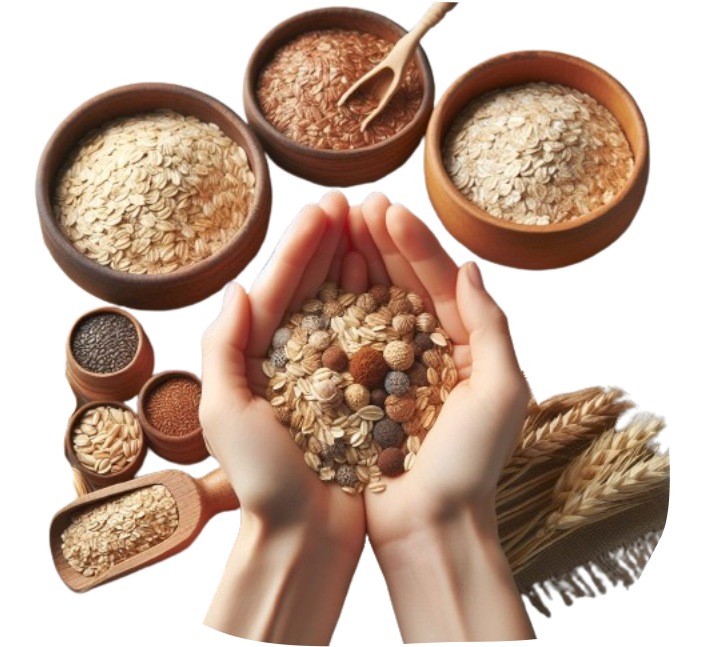
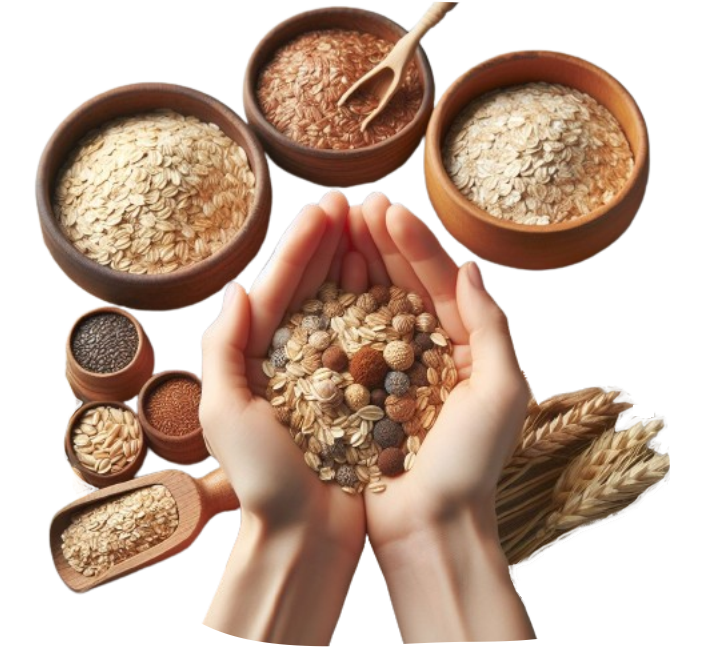
se agrego en tailwind.config.js el color green. mas m top al contact. Reemplazo de colores azules por verdes. Actualizacion imagen manos.

diff --git a/components/Hero/index.tsx b/components/Hero/index.tsx
@@ -15,7 +15,7 @@ const Hero = () => {
                 className="wow fadeInUp mx-auto max-w-[800px] text-center"
                 data-wow-delay=".2s"
               >
-                <h1 className="mb-5 text-3xl font-bold leading-tight text-black dark:text-white sm:text-4xl sm:leading-tight md:text-5xl md:leading-tight">
+                <h1 className="mb-5 text-3xl font-bold leading-tight text-dark dark:text-white sm:text-4xl sm:leading-tight md:text-5xl md:leading-tight">
                   Cooperativa de trabajo Cerealcoop Ltda.
                 </h1>
                {/*  <Image
@@ -105,8 +105,8 @@ const Hero = () => {
                 y2="288"
                 gradientUnits="userSpaceOnUse"
               >
-                <stop stopColor="#4A6CF7" />
-                <stop offset="1" stopColor="#4A6CF7" stopOpacity="0" />
+                <stop stopColor="#078c31" />
+                <stop offset="1" stopColor="#078c31" stopOpacity="0" />
               </linearGradient>
               <radialGradient
                 id="paint1_radial_25:217"
@@ -116,8 +116,8 @@ const Hero = () => {
                 gradientUnits="userSpaceOnUse"
                 gradientTransform="translate(17.9997 182) rotate(90) scale(18)"
               >
-                <stop offset="0.145833" stopColor="#4A6CF7" stopOpacity="0" />
-                <stop offset="1" stopColor="#4A6CF7" stopOpacity="0.08" />
+                <stop offset="0.145833" stopColor="#078c31" stopOpacity="0" />
+                <stop offset="1" stopColor="#078c31" stopOpacity="0.08" />
               </radialGradient>
               <radialGradient
                 id="paint2_radial_25:217"
@@ -127,8 +127,8 @@ const Hero = () => {
                 gradientUnits="userSpaceOnUse"
                 gradientTransform="translate(76.9997 288) rotate(90) scale(34)"
               >
-                <stop offset="0.145833" stopColor="#4A6CF7" stopOpacity="0" />
-                <stop offset="1" stopColor="#4A6CF7" stopOpacity="0.08" />
+                <stop offset="0.145833" stopColor="#078c31" stopOpacity="0" />
+                <stop offset="1" stopColor="#078c31" stopOpacity="0.08" />
               </radialGradient>
               <linearGradient
                 id="paint3_linear_25:217"
@@ -138,8 +138,8 @@ const Hero = () => {
                 y2="351.421"
                 gradientUnits="userSpaceOnUse"
               >
-                <stop stopColor="#4A6CF7" />
-                <stop offset="1" stopColor="#4A6CF7" stopOpacity="0" />
+                <stop stopColor="#078c31" />
+                <stop offset="1" stopColor="#078c31" stopOpacity="0" />
               </linearGradient>
               <linearGradient
                 id="paint4_linear_25:217"
@@ -149,7 +149,7 @@ const Hero = () => {
                 y2="448.882"
                 gradientUnits="userSpaceOnUse"
               >
-                <stop stopColor="#4A6CF7" />
+                <stop stopColor="#078c31" />
                 <stop offset="1" stopColor="white" stopOpacity="0" />
               </linearGradient>
               <linearGradient
@@ -160,7 +160,7 @@ const Hero = () => {
                 y2="470"
                 gradientUnits="userSpaceOnUse"
               >
-                <stop stopColor="#4A6CF7" />
+                <stop stopColor="#078c31" />
                 <stop offset="1" stopColor="white" stopOpacity="0" />
               </linearGradient>
               <linearGradient
@@ -171,8 +171,8 @@ const Hero = () => {
                 y2="338.63"
                 gradientUnits="userSpaceOnUse"
               >
-                <stop stopColor="#4A6CF7" />
-                <stop offset="1" stopColor="#4A6CF7" stopOpacity="0" />
+                <stop stopColor="#078c31" />
+                <stop offset="1" stopColor="#078c31" stopOpacity="0" />
               </linearGradient>
             </defs>
           </svg>
@@ -219,8 +219,8 @@ const Hero = () => {
                 y2="212.24"
                 gradientUnits="userSpaceOnUse"
               >
-                <stop stopColor="#4A6CF7" stopOpacity="0" />
-                <stop offset="1" stopColor="#4A6CF7" />
+                <stop stopColor="#078c31" stopOpacity="0" />
+                <stop offset="1" stopColor="#078c31" />
               </linearGradient>
               <linearGradient
                 id="paint1_linear_25:218"
@@ -230,8 +230,8 @@ const Hero = () => {
                 y2="212.24"
                 gradientUnits="userSpaceOnUse"
               >
-                <stop stopColor="#4A6CF7" stopOpacity="0" />
-                <stop offset="1" stopColor="#4A6CF7" />
+                <stop stopColor="#078c31" stopOpacity="0" />
+                <stop offset="1" stopColor="#078c31" />
               </linearGradient>
               <linearGradient
                 id="paint2_linear_25:218"
@@ -241,8 +241,8 @@ const Hero = () => {
                 y2="212.24"
                 gradientUnits="userSpaceOnUse"
               >
-                <stop stopColor="#4A6CF7" stopOpacity="0" />
-                <stop offset="1" stopColor="#4A6CF7" />
+                <stop stopColor="#078c31" stopOpacity="0" />
+                <stop offset="1" stopColor="#078c31" />
               </linearGradient>
               <linearGradient
                 id="paint3_linear_25:218"
@@ -252,8 +252,8 @@ const Hero = () => {
                 y2="210.214"
                 gradientUnits="userSpaceOnUse"
               >
-                <stop stopColor="#4A6CF7" stopOpacity="0" />
-                <stop offset="1" stopColor="#4A6CF7" />
+                <stop stopColor="#078c31" stopOpacity="0" />
+                <stop offset="1" stopColor="#078c31" />
               </linearGradient>
               <linearGradient
                 id="paint4_linear_25:218"
@@ -263,8 +263,8 @@ const Hero = () => {
                 y2="99.5816"
                 gradientUnits="userSpaceOnUse"
               >
-                <stop stopColor="#4A6CF7" />
-                <stop offset="1" stopColor="#4A6CF7" stopOpacity="0" />
+                <stop stopColor="#078c31" />
+                <stop offset="1" stopColor="#078c31" stopOpacity="0" />
               </linearGradient>
               <radialGradient
                 id="paint5_radial_25:218"

diff --git a/components/Footer/index.tsx b/components/Footer/index.tsx
@@ -74,7 +74,7 @@ const Footer = () => {
                   <li>
                    {/* Instagram */}
                    {/* ORIGINAL DE LA SIG LINEA <div className="dark:text-body-color-dark mb-4 inline-block text-base text-body-color duration-300 hover:text-primary dark:hover:text-primary"> */}
-                    <div className="dark:text-body-color-dark mb-4 text-base text-body-color duration-300 hover:text-primary dark:hover:text-primary">
+                    <div className="dark:text-body-color-dark mb-4 text-base text-body-color duration-300 hover:text-green dark:hover:text-green">
                       <Link href="https://www.instagram.com/cerealcoop/" target="_blank" className="flex align-middle">
                         <svg
                           xmlns="http://www.w3.org/2000/svg"
@@ -89,7 +89,7 @@ const Footer = () => {
                     </div>
                   </li>
                   <li>
-                    <div className="dark:text-body-color-dark mb-4 text-base text-body-color duration-300 hover:text-primary dark:hover:text-primary">
+                    <div className="dark:text-body-color-dark mb-4 text-base text-body-color duration-300 hover:text-green dark:hover:text-green">
                       <Link href="https://www.facebook.com/cerealcoop" target="_blank" className="flex align-middle">
                         <svg
                           xmlns="http://www.w3.org/2000/svg"  
@@ -115,7 +115,7 @@ const Footer = () => {
                   <li>
                     <Link href="https://www.google.com/search?hl=es-419&gl=ar&q=Cooperativa+de+Trabajo+Cerealcoop+Ltda.,+Balcarce+1450,+B7500IFD+Tres+Arroyos,+Provincia+de+Buenos+Aires&ludocid=11000712855476742547&lsig=AB86z5Vr_sa1EOOlyXF5CeOdl1nP#lrd=0x95926d38bac17f87:0x98aa620ecac3a993,3"
                       target="_blank" 
-                      className="dark:text-body-color-dark mb-4 inline-block text-base text-body-color duration-300 hover:text-primary dark:hover:text-primary"
+                      className="dark:text-body-color-dark mb-4 inline-block text-base text-body-color duration-300 hover:text-green dark:hover:text-green"
                     >
                       Opinar en google
                     </Link>
@@ -153,7 +153,7 @@ const Footer = () => {
             fill="none"
             xmlns="http://www.w3.org/2000/svg"
           >
-            <circle opacity="0.8" cx="49.5" cy="49.5" r="49.5" fill="#959CB1" />
+            <circle opacity="0.8" cx="49.5" cy="49.5" r="49.5" fill="#078c31" />
             <mask
               id="mask0_94:899"
               style={{ maskType: "alpha" }}
@@ -168,7 +168,7 @@ const Footer = () => {
                 cx="49.5"
                 cy="49.5"
                 r="49.5"
-                fill="#4A6CF7"
+                fill="#078c31"
               />
             </mask>
             <g mask="url(#mask0_94:899)">
@@ -274,8 +274,8 @@ const Footer = () => {
                 y2="59.8878"
                 gradientUnits="userSpaceOnUse"
               >
-                <stop stopColor="#4A6CF7" stopOpacity="0.62" />
-                <stop offset="1" stopColor="#4A6CF7" stopOpacity="0" />
+                <stop stopColor="#078c31" stopOpacity="0.62" />
+                <stop offset="1" stopColor="#078c31" stopOpacity="0" />
               </linearGradient>
               <linearGradient
                 id="paint1_linear_94:889"
@@ -285,8 +285,8 @@ const Footer = () => {
                 y2="20.668"
                 gradientUnits="userSpaceOnUse"
               >
-                <stop stopColor="#4A6CF7" stopOpacity="0" />
-                <stop offset="1" stopColor="#4A6CF7" stopOpacity="0.51" />
+                <stop stopColor="#078c31" stopOpacity="0" />
+                <stop offset="1" stopColor="#078c31" stopOpacity="0.51" />
               </linearGradient>
               <linearGradient
                 id="paint2_linear_94:889"
@@ -296,8 +296,8 @@ const Footer = () => {
                 y2="25.1062"
                 gradientUnits="userSpaceOnUse"
               >
-                <stop stopColor="#4A6CF7" stopOpacity="0.62" />
-                <stop offset="1" stopColor="#4A6CF7" stopOpacity="0" />
+                <stop stopColor="#078c31" stopOpacity="0.62" />
+                <stop offset="1" stopColor="#078c31" stopOpacity="0" />
               </linearGradient>
               <linearGradient
                 id="paint3_linear_94:889"
@@ -307,8 +307,8 @@ const Footer = () => {
                 y2="80.6826"
                 gradientUnits="userSpaceOnUse"
               >
-                <stop stopColor="#4A6CF7" stopOpacity="0" />
-                <stop offset="1" stopColor="#4A6CF7" stopOpacity="0.51" />
+                <stop stopColor="#078c31" stopOpacity="0" />
+                <stop offset="1" stopColor="#078c31" stopOpacity="0.51" />
               </linearGradient>
               <linearGradient
                 id="paint4_linear_94:889"
@@ -318,8 +318,8 @@ const Footer = () => {
                 y2="58.2156"
                 gradientUnits="userSpaceOnUse"
               >
-                <stop stopColor="#4A6CF7" stopOpacity="0.62" />
-                <stop offset="1" stopColor="#4A6CF7" stopOpacity="0" />
+                <stop stopColor="#078c31" stopOpacity="0.62" />
+                <stop offset="1" stopColor="#078c31" stopOpacity="0" />
               </linearGradient>
               <linearGradient
                 id="paint5_linear_94:889"
@@ -329,8 +329,8 @@ const Footer = () => {
                 y2="41.6598"
                 gradientUnits="userSpaceOnUse"
               >
-                <stop stopColor="#4A6CF7" stopOpacity="0" />
-                <stop offset="1" stopColor="#4A6CF7" stopOpacity="0.51" />
+                <stop stopColor="#078c31" stopOpacity="0" />
+                <stop offset="1" stopColor="#078c31" stopOpacity="0.51" />
               </linearGradient>
             </defs>
           </svg>

diff --git a/components/Header/index.tsx b/components/Header/index.tsx
@@ -79,7 +79,7 @@ const Header = () => {
                   onClick={navbarToggleHandler}
                   id="navbarToggler"
                   aria-label="Mobile Menu"
-                  className="absolute right-4 top-1/2 block translate-y-[-50%] rounded-lg px-3 py-[6px] ring-primary focus:ring-2 lg:hidden"
+                  className="absolute right-4 top-1/2 block translate-y-[-50%] rounded-lg px-3 py-[6px] ring-green focus:ring-2 lg:hidden"
                 >
                   <span
                     className={`relative my-1.5 block h-0.5 w-[30px] bg-black transition-all duration-300 dark:bg-white ${
@@ -113,8 +113,8 @@ const Header = () => {
                             href={menuItem.path}
                             className={`flex py-2 text-base justify-center lg:mr-0 lg:inline-flex lg:px-0 lg:py-6 ${
                               usePathName === menuItem.path
-                                ? "text-primary dark:text-white"
-                                : "text-dark hover:text-primary dark:text-white/70 dark:hover:text-white"
+                                ? "text-green dark:text-white"
+                                : "text-dark hover:text-green dark:text-white/70 dark:hover:text-white"
                             }`}
                           >
                             {menuItem.title}
@@ -123,7 +123,7 @@ const Header = () => {
                           <>
                             <p
                               onClick={() => handleSubmenu(index)}
-                              className="flex cursor-pointer items-center justify-between py-2 text-base text-dark group-hover:text-primary dark:text-white/70 dark:group-hover:text-white lg:mr-0 lg:inline-flex lg:px-0 lg:py-6"
+                              className="flex cursor-pointer items-center justify-between py-2 text-base text-dark group-hover:text-green dark:text-white/70 dark:group-hover:text-white lg:mr-0 lg:inline-flex lg:px-0 lg:py-6"
                             >
                               {menuItem.title}
                               <span className="pl-3">
@@ -177,7 +177,7 @@ const Header = () => {
                   <Link href="//api.whatsapp.com/send?phone=542983582016" target="_blank">
                     <svg
                       xmlns="http://www.w3.org/2000/svg"                    
-                      fill="currentColor"
+                      fill="#078c31"
                       style={{ color: '#128c7e'}}
                       viewBox="0 0 24 24">
                       <path

diff --git a/components/Contact/index.tsx b/components/Contact/index.tsx
@@ -7,7 +7,7 @@ const Contact = () => {
         <div className="-mx-4 flex flex-wrap">
           <div className="w-full px-4">
             <div
-              className="wow fadeInUp shadow-three dark:bg-gray-dark mb-12 rounded-sm bg-white px-8 py-11 sm:p-[55px] lg:mb-5 lg:px-8 xl:p-[55px]"
+              className="wow fadeInUp shadow-three dark:bg-gray-dark mb-12 mt-6 rounded-sm bg-white px-8 py-11 sm:p-[55px] lg:mb-5 lg:px-8 xl:p-[55px]"
               data-wow-delay=".15s
               "
             >
@@ -22,24 +22,24 @@ const Contact = () => {
               </p>
                 <div className="-mx-4 flex flex-wrap">
                   <div className="w-full px-4 md:w-1/2">
-                    <div className="mb-8">
+                    <div className="mb-8  hover:text-green dark:hover:text-green">
                       <Link href="https://maps.app.goo.gl/VBvaxE1udhaViQyF6" target="_blank">
                         Balcarce 1450, Tres Arroyos, pcia. de Buenos Aires.
                       </Link>                      
                     </div>
-                    <div className="mb-8">
+                    <div className="mb-8 hover:text-green dark:hover:text-green">
                       <Link href="tel:+542983574647" target="_blank">
                         Telefono: 2983 574647 
                       </Link>
                     </div>
                   </div>
                   <div className="w-full px-4 md:w-1/2">
-                    <div className="mb-8">
+                    <div className="mb-8 hover:text-green dark:hover:text-green">
                       <Link href="mailto:info@cerealcoop.com.ar" target="_blank">
                         mail: info@cerealcoop.com.ar
                       </Link>
                     </div>
-                    <div className="mb-8">
+                    <div className="mb-8 hover:text-green dark:hover:text-green">
                       <Link href="//api.whatsapp.com/send?phone=542983574647" target="_blank">
                         Whatsapp: 2983 574647 
                       </Link>

diff --git a/components/ScrollToTop/index.tsx b/components/ScrollToTop/index.tsx
@@ -33,7 +33,7 @@ export default function ScrollToTop() {
         <div
           onClick={scrollToTop}
           aria-label="scroll to top"
-          className="flex h-10 w-10 cursor-pointer items-center justify-center rounded-md bg-primary text-white shadow-md transition duration-300 ease-in-out hover:bg-opacity-80 hover:shadow-signUp"
+          className="flex h-10 w-10 cursor-pointer items-center justify-center rounded-md bg-green text-white shadow-md transition duration-300 ease-in-out hover:bg-opacity-80 hover:shadow-signUp"
         >
           <span className="mt-[6px] h-3 w-3 rotate-45 border-l border-t border-white"></span>
         </div>

diff --git a/tailwind.config.js b/tailwind.config.js
@@ -40,6 +40,7 @@ module.exports = {
         dark: "#1D2430",
         primary: "#4A6CF7",
         yellow: "#FBB040",
+        green:"#078c31",
         "body-color": "#788293",
         "body-color-dark": "#959CB1",
         "gray-dark": "#1E232E",
